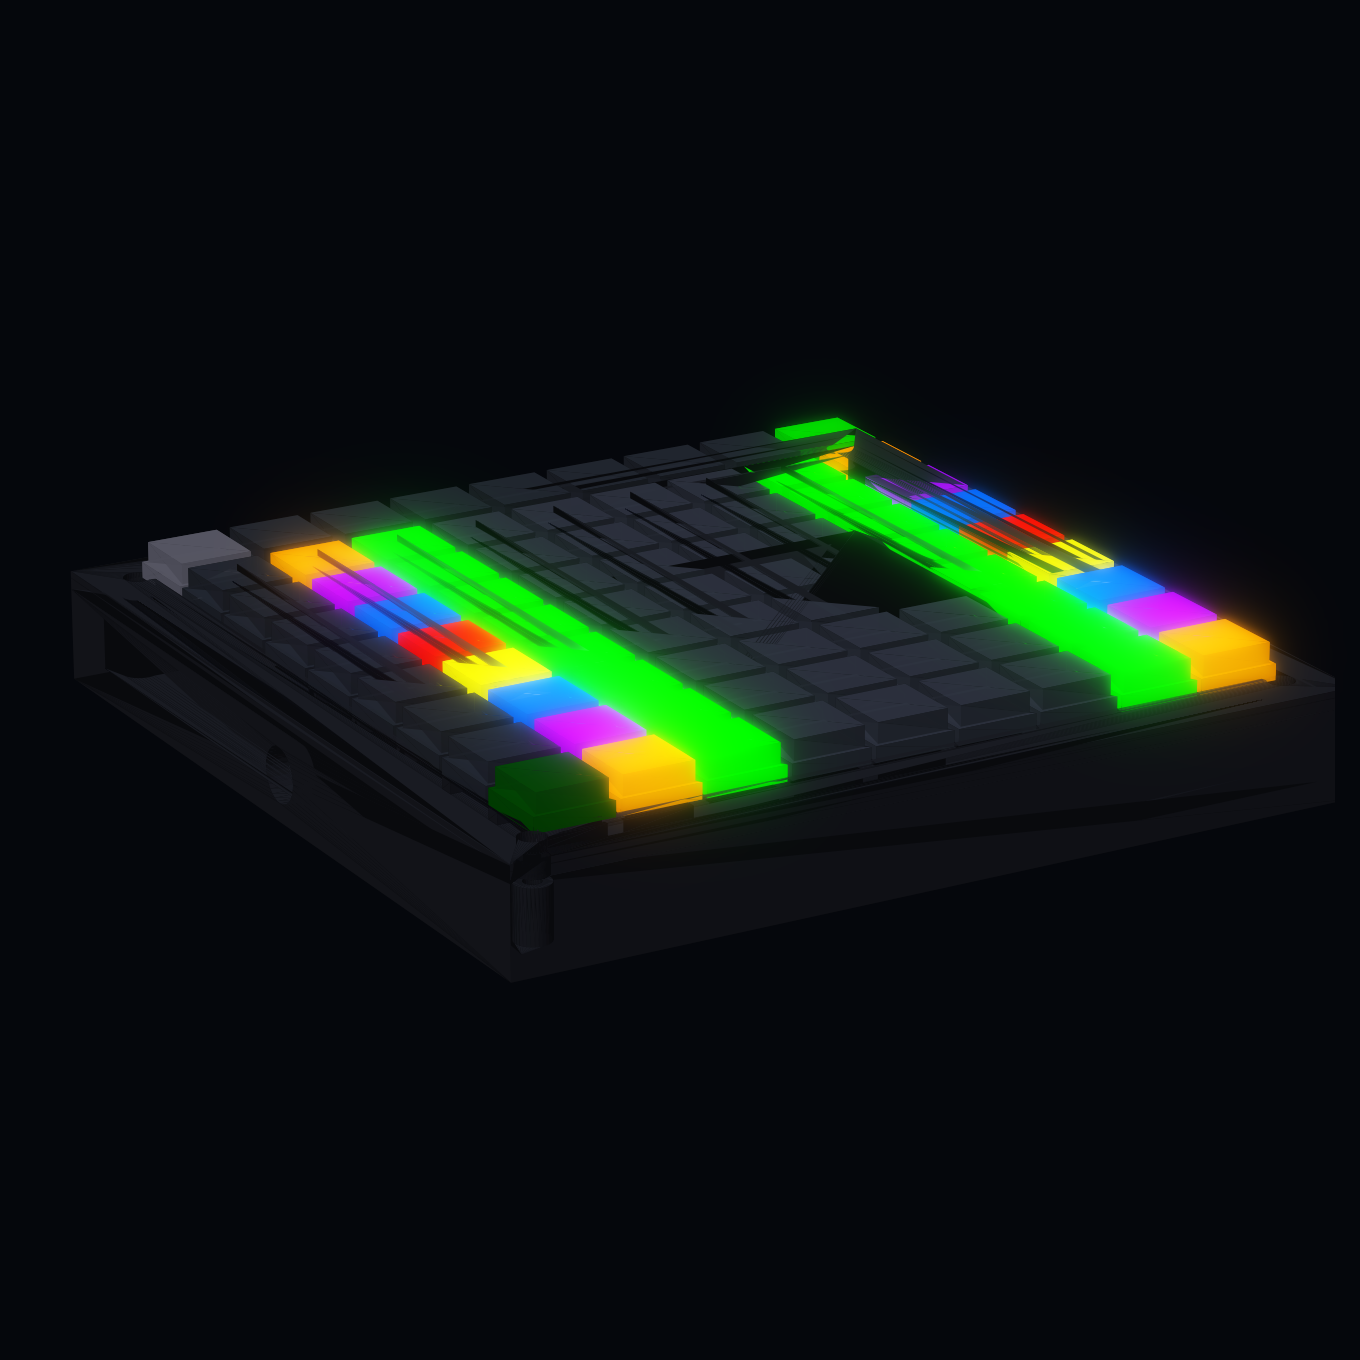
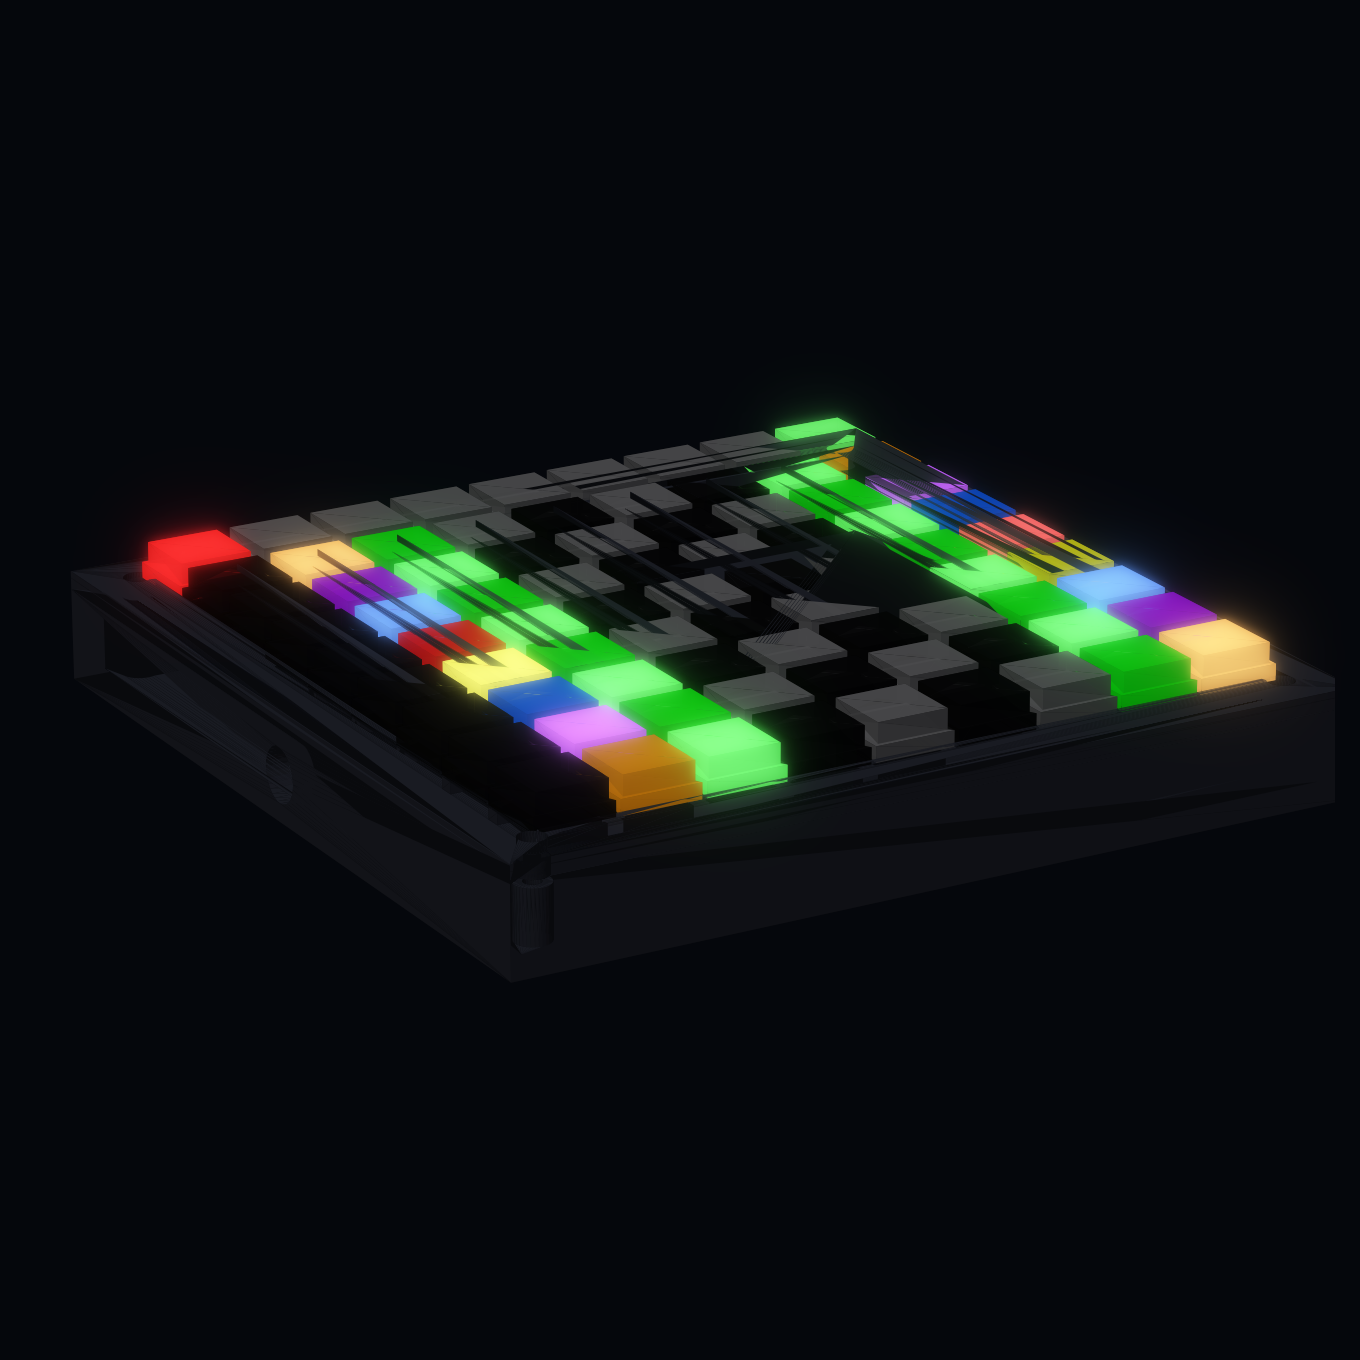
Beauty renders: checkerboard keycaps with LEDs glowing through
Keycaps now use the chessboard colour code (red M, black top row,
white left column, black/white 8x8 board) at 65% transparency, so the
RGB LEDs shine through — brighter on white caps, dimmer on black.

Claude-Session: https://claude.ai/code/session_011c3uSJiuwgZtcSM9BDp2gT

Changed region(s): [[0.0926, 0.3088, 0.9574, 0.6176]]

diff --git a/hardware/enclosure/gen_beauty.py b/hardware/enclosure/gen_beauty.py
@@ -10,9 +10,16 @@ from PIL import Image, ImageFilter
 HERE=os.path.dirname(__file__); PROJ=os.path.join(HERE,"..","project"); OUT=os.path.join(HERE,"..")
 PITCH=19.05; C0=14.8; N=9
 
-# piece colours (handoff code)
+# piece colours (handoff code) -> the LED under each square
 PC={'P':(0,255,0),'N':(160,0,255),'R':(255,140,0),'B':(0,80,255),'Q':(255,0,0),'K':(255,255,0)}
 BACK=['R','N','B','Q','K','B','N','R']
+
+# keycap colour map from the user's image: red M, black top row, white left
+# column, black/white chessboard in the 8x8 area.
+CAP_GRID=["RBBBBBBBB","WWBWBWBWB","WBWBWBWBW","WWBWBWBWB","WBWBWBWBW",
+          "WWBWBWBWB","WBWBWBWBW","WWBWBWBWB","WBWBWBWBW"]
+CAPRGB={'R':(225,25,25),'W':(238,238,244),'B':(16,16,20)}
+TRANSPARENCY=0.65   # fraction of the LED that shines through the keycap
 
 LIGHT=np.array([0.35,-0.5,0.9]); LIGHT/=np.linalg.norm(LIGHT)
 def shade(mesh,rgb,emissive):
@@ -38,19 +45,25 @@ def cap_mesh(xc,yc):
     hi=trimesh.creation.box(extents=[16,16,4.5]); hi.apply_translation([xc,yc,PLATE_TOP+3.5+2.25])
     return lo,hi
 
-def cell_color(r,c):
-    # returns (rgb, emissive) for physical (row r, col c).
-    # Beauty render shows both sides at full colour to showcase the code
-    # (in-game the waiting side renders at 50%).
+def led_color(r,c):
+    # the RGB LED under each square (starting position, both sides full)
     if 1<=r<=8 and 1<=c<=8:
         file=c-1
-        if r in (8,1): return PC[BACK[file]],True        # back ranks
-        if r in (7,2): return PC['P'],True               # pawn ranks
-        return (52,58,72),False                          # empty square (smoky translucent)
-    if (r,c)==(8,0): return (0,210,0),True               # White CLK (active)
-    if (r,c)==(0,8): return (0,70,0),True                # Black CLK (idle)
-    if (r,c)==(0,0): return (90,90,104),True             # M button faint
-    return (40,45,56),False                              # eval segments / unlit
+        if r in (8,1): return PC[BACK[file]]
+        if r in (7,2): return PC['P']
+        return (0,0,0)                 # empty square -> LED off
+    if (r,c)==(8,0): return (0,230,0)  # White CLK active
+    if (r,c)==(0,0): return (255,30,30) # M lit red
+    return (0,0,0)
+
+def cell_color(r,c):
+    # translucent keycap (CAP colour) with the LED shining through at 65%.
+    # visible = 35% keycap tint + 65% LED.
+    cap=np.array(CAPRGB[CAP_GRID[r][c]],float)
+    led=np.array(led_color(r,c),float)
+    vis=(1-TRANSPARENCY)*cap + TRANSPARENCY*led
+    emissive = led.max()>0
+    return tuple(vis), emissive
 
 def render(out, elev, azim, title, w=12, h=10):
     fig=plt.figure(figsize=(w,h),dpi=170); fig.patch.set_facecolor("#05070c")
